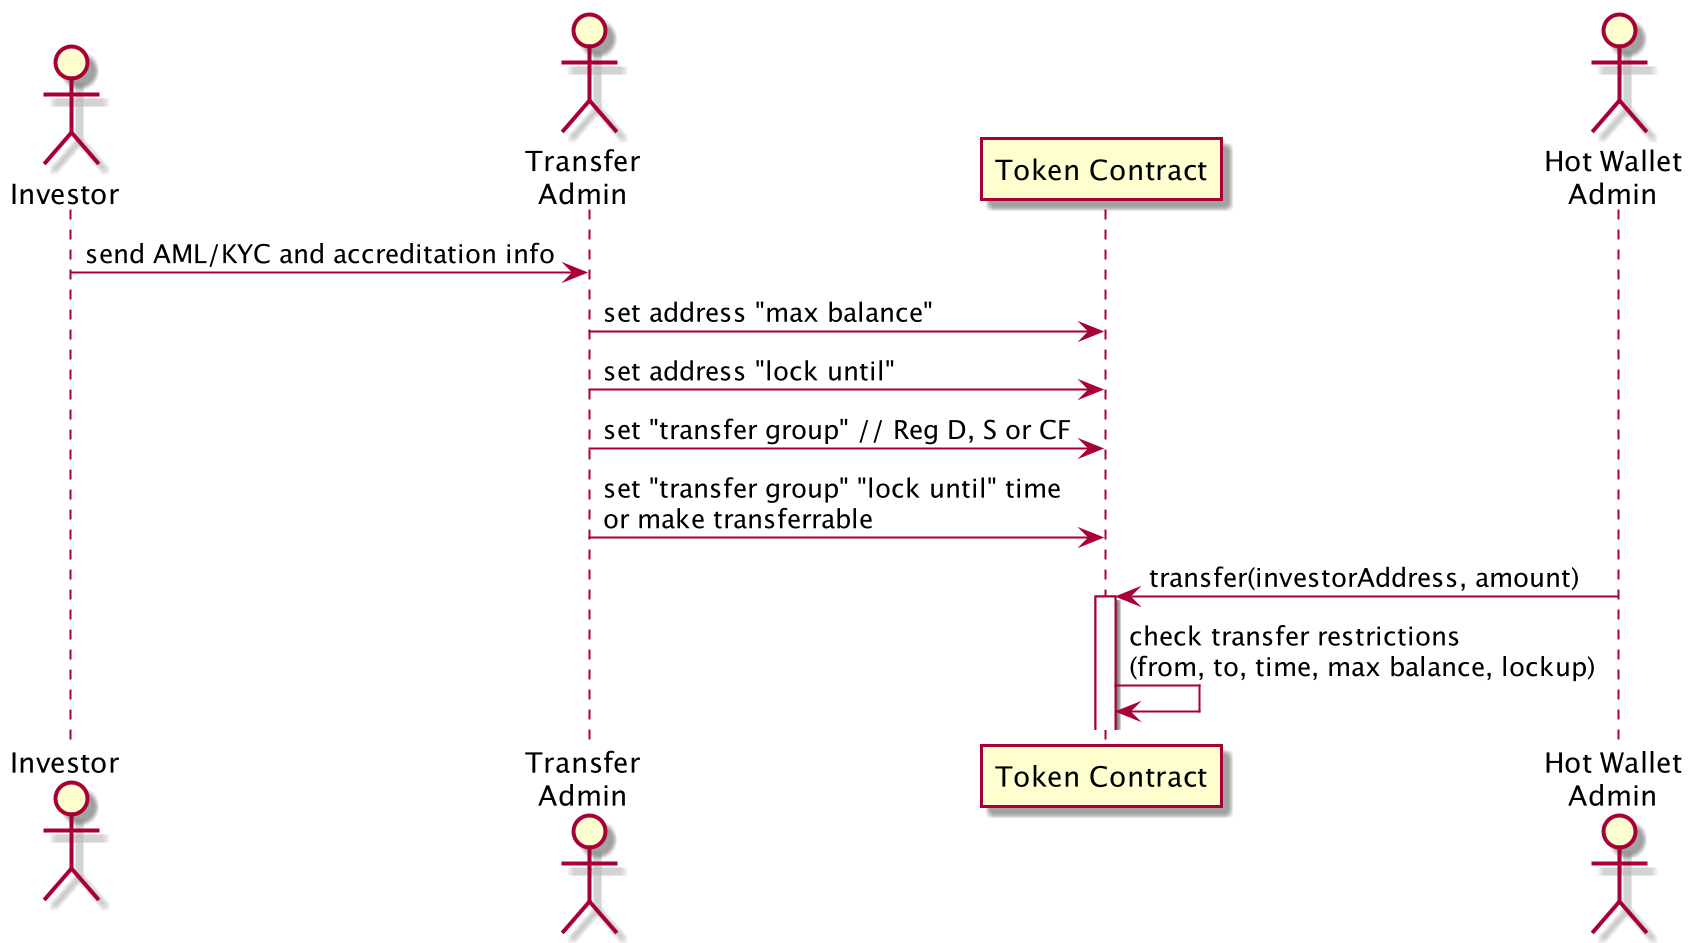
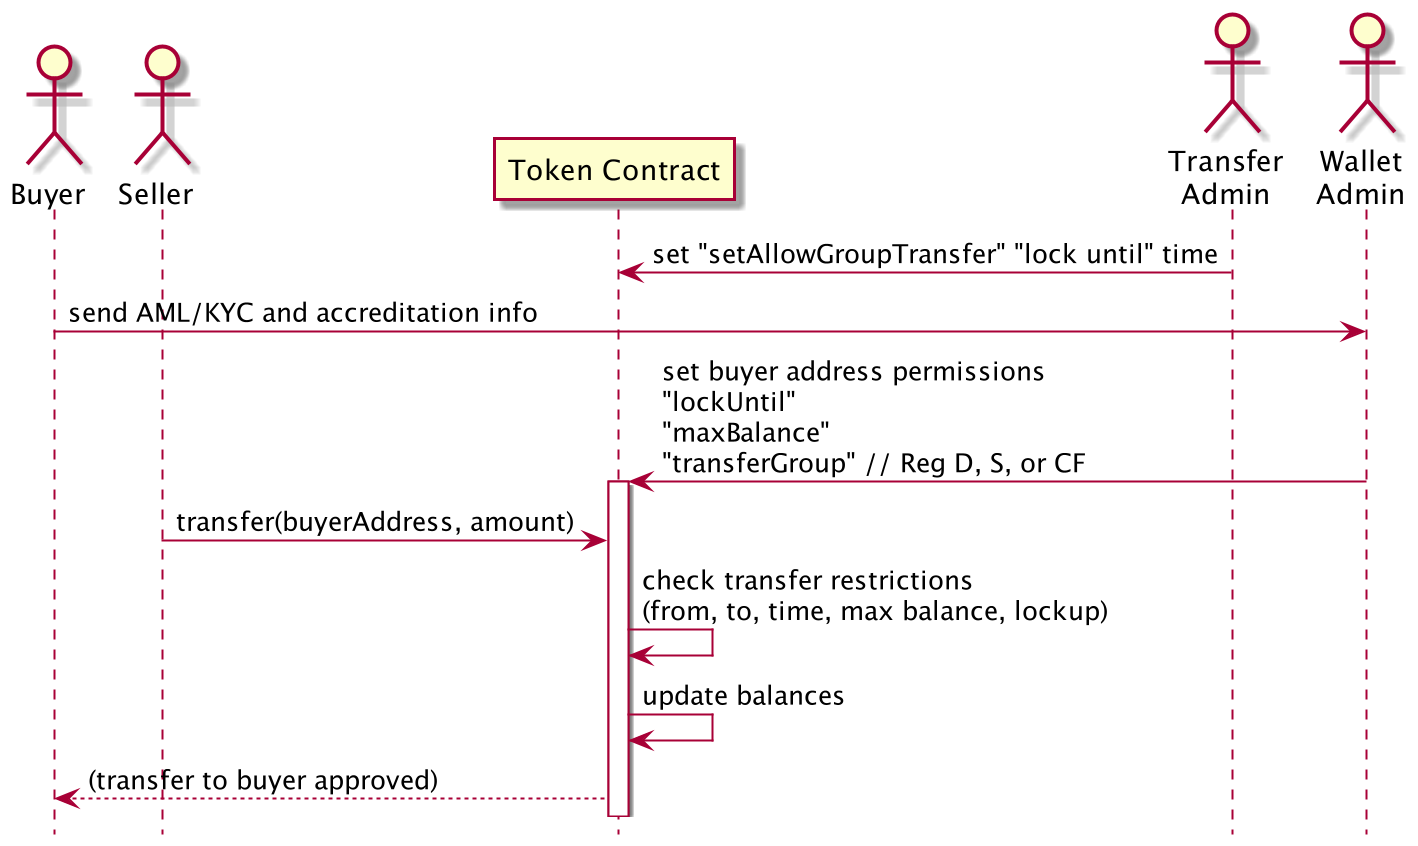
Update the README basic issuance example

diff --git a/README.md b/README.md
@@ -139,11 +139,12 @@ The Algorand Security Token can be configured after deployment to enforce transf
 
 
 The Transfer Admin for the Token Contract can provision account addresses to transfer and receive tokens under certain conditions. This is the process for configuring transfer restrictions and transferring tokens:
-1. An Investor sends their Anti Money Laundering and Know Your Customer (AML/KYC) information to the Transfer Admin or to a proxy vetting service to verify this information. The benefit of using a qualified third party provider is to avoid needing to store privately identifiable information. This code does not provide a solution for collecting AML/KYC information.
-2. The Transfer Admin configures the "transferGroup", "lock until" and "max balance" attriubute for the account. Initially this will be done for the Primary Issuance of tokens to investors where tokens are distributed directly from the issuer to holder accounts.
-3. A potential buyer sends their AML/KYC information to the Transfer Admin or a trusted AML/KYC provider.
-4. The Transfer Admin calls provisions the Buyer account like they did for the Investor.
-5. At this time or before, the Transfer Admin authorizes the transfer of tokens between account groups with the `"transferGroup" "lock"` functionality. Note that allowing a transfer from group A to group B by default does not allow the reverse transfer from group B to group A. This would have to be done separately. An example is that Reg CF unaccredited investors may be allowed to sell to Accredited US investors but not vice versa.
+1. A transfer rules admin configures which transfer groups can transfer to each other with "setAllowTransferGroups". Note that allowing a transfer from group A to group B by default does not allow the reverse transfer from group B to group A. This would have to be done separately. An example is that Reg CF unaccredited investors may be allowed to sell to Accredited US investors but not vice versa.
+2. A potential buyer sends their Anti Money Laundering and Know Your Customer (AML/KYC) information to the Wallet Admin or to a proxy vetting service to verify this information. The benefit of using a qualified third party provider is to avoid needing to store privately identifiable information. This code does not provide a solution for collecting AML/KYC information.
+3. The Wallet Admin configures the "transferGroup", "lock until" and "max balance" attribute for the buyer account. Initially this will be done for the Primary Issuance of tokens to investors where tokens are distributed directly from the issuer to holder accounts.
+4. The seller initiates a transfer to the buyer.
+5. The smart contract checks the transfer rules. 
+6. If the transfer is authorized by the smart contract transfer rules the smart contract updates the balances of the buyer and seller. 
 
 ## WARNING: Maximum Total Supply, Minting and Burning of Tokens
 

diff --git a/diagrams/diagrams.md b/diagrams/diagrams.md
@@ -1,19 +1,20 @@
 ```plantuml
 @startuml basic-issuance
-actor "Investor" as Investor
-actor "Transfer\nAdmin" as TAdmin
+actor "Buyer" as Buyer
+actor "Seller" as Seller
 participant "Token Contract" as Token
-actor "Hot Wallet\nAdmin" as HAdmin
+actor "Transfer\nAdmin" as TAdmin
+actor "Wallet\nAdmin" as WAdmin
 
-Investor -> TAdmin: send AML/KYC and accreditation info
-TAdmin -> Token: set address "max balance"
-TAdmin -> Token: set address "lock until" 
-TAdmin -> Token: set "transferGroup" // Reg D, S or CF
-TAdmin -> Token: set "transferGroup" "lock until" time\nor make transferrable
-HAdmin -> Token: transfer(investorAddress, amount)
+TAdmin -> Token: set "setAllowGroupTransfer" "lock until" time
+Buyer -> WAdmin: send AML/KYC and accreditation info
+WAdmin -> Token: set buyer address permissions\n"lockUntil"\n"maxBalance"\n"transferGroup" // Reg D, S, or CF
 activate Token
+Seller -> Token: transfer(buyerAddress, amount)
 Token -> Token: check transfer restrictions\n(from, to, time, max balance, lockup)
-
+Token -> Token: update balances
+Token --> Buyer: (transfer to buyer approved)
+hide footbox
 @enduml
 ```
 
